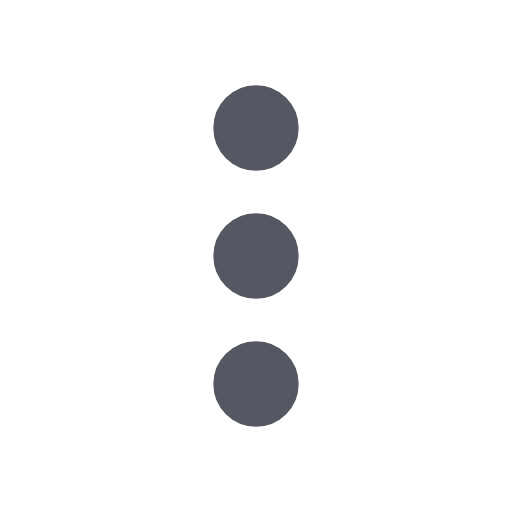
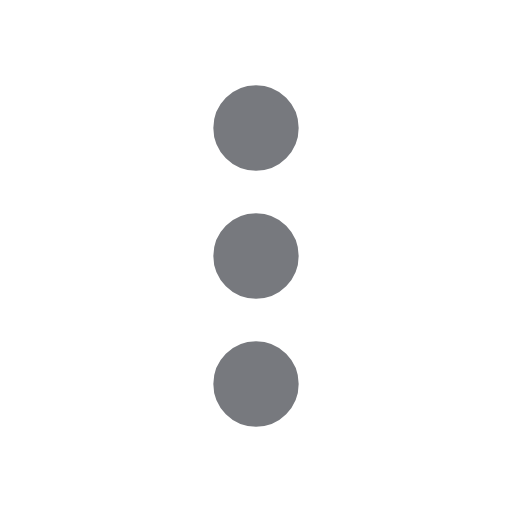
Adjusted items margin and text flow

Changed region(s): [[0.4062, 0.6562, 0.5938, 0.8438], [0.4062, 0.4062, 0.5938, 0.5938], [0.4062, 0.1562, 0.5938, 0.3438]]

diff --git a/src/index.css b/src/index.css
@@ -3,6 +3,12 @@
 :root {
   --white-bg-color: #fff;
   --card-bg: #ccc;
+  --body-background: #f1f2f5;
+  --card-background: #fff;
+}
+
+body {
+  background: var(--body-background);
 }
 
 * {
@@ -24,6 +30,7 @@
   display: flex;
   flex-direction: column;
   margin-top: 30px;
+  background: var(--card-background);
 }
 
 /* card header */
@@ -69,6 +76,16 @@
 
 /* card body END */
 
+/* icon colors */
+
+.refresh-icon,
+.checkbox,
+.backspace-icon,
+.more-icon {
+  width: 20px;
+  fill: #888686;
+}
+
 /* Input field   */
 .add-item {
   display: flex;
@@ -83,7 +100,7 @@
   border: none;
   outline: none;
   line-height: 50px;
-  font-size: 20px;
+  font-size: 16px;
 }
 
 .add-item::after {
@@ -94,7 +111,7 @@
   width: 100%;
   height: 1px;
   background-color: #ccc;
-  z-index: -1;
+  z-index: 1;
 }
 
 input[type="text"] {
@@ -104,6 +121,7 @@ input[type="text"] {
 .backspace-icon {
   width: 20px;
   margin-left: 10px;
+  fill: #888686;
 }
 
 .add-item .backspace-icon {
@@ -130,6 +148,8 @@ input[type="text"] {
   display: flex;
   align-items: center;
   justify-content: space-between;
+  line-height: 25px;
+  color: #545862;
 }
 
 .list-items li:not(:last-child) {
@@ -149,7 +169,9 @@ input[type="text"] {
 }
 
 .list-items li label {
-  margin-right: 70%;
+  margin-right: 90px;
+  white-space: nowrap;
+  overflow: hidden;
 }
 
 /* list items  END */
@@ -158,8 +180,8 @@ input[type="text"] {
 
 .clear-completed {
   cursor: pointer;
-  color: #424242;
-  background-color: grey;
+  color: #888686;
+  background-color: #e0dede;
   display: flex;
   justify-content: center;
   position: absolute;
@@ -170,6 +192,8 @@ input[type="text"] {
   max-width: 100%;
   padding: 18px 20px;
   margin-bottom: -20px;
+  font-weight: normal;
+  font-size: 20px;
 }
 
 .clear-completed h5 {

diff --git a/src/index.js b/src/index.js
@@ -7,17 +7,12 @@ import './index.css';
 const TodoItems = [
   {
     index: 1,
-    description: 'Task1',
+    description: 'wash the dishes',
     completed: false,
   },
   {
     index: 2,
-    description: 'Task2',
-    completed: false,
-  },
-  {
-    index: 3,
-    description: 'Task3',
+    description: 'complete To Do List project',
     completed: false,
   },
 ];
